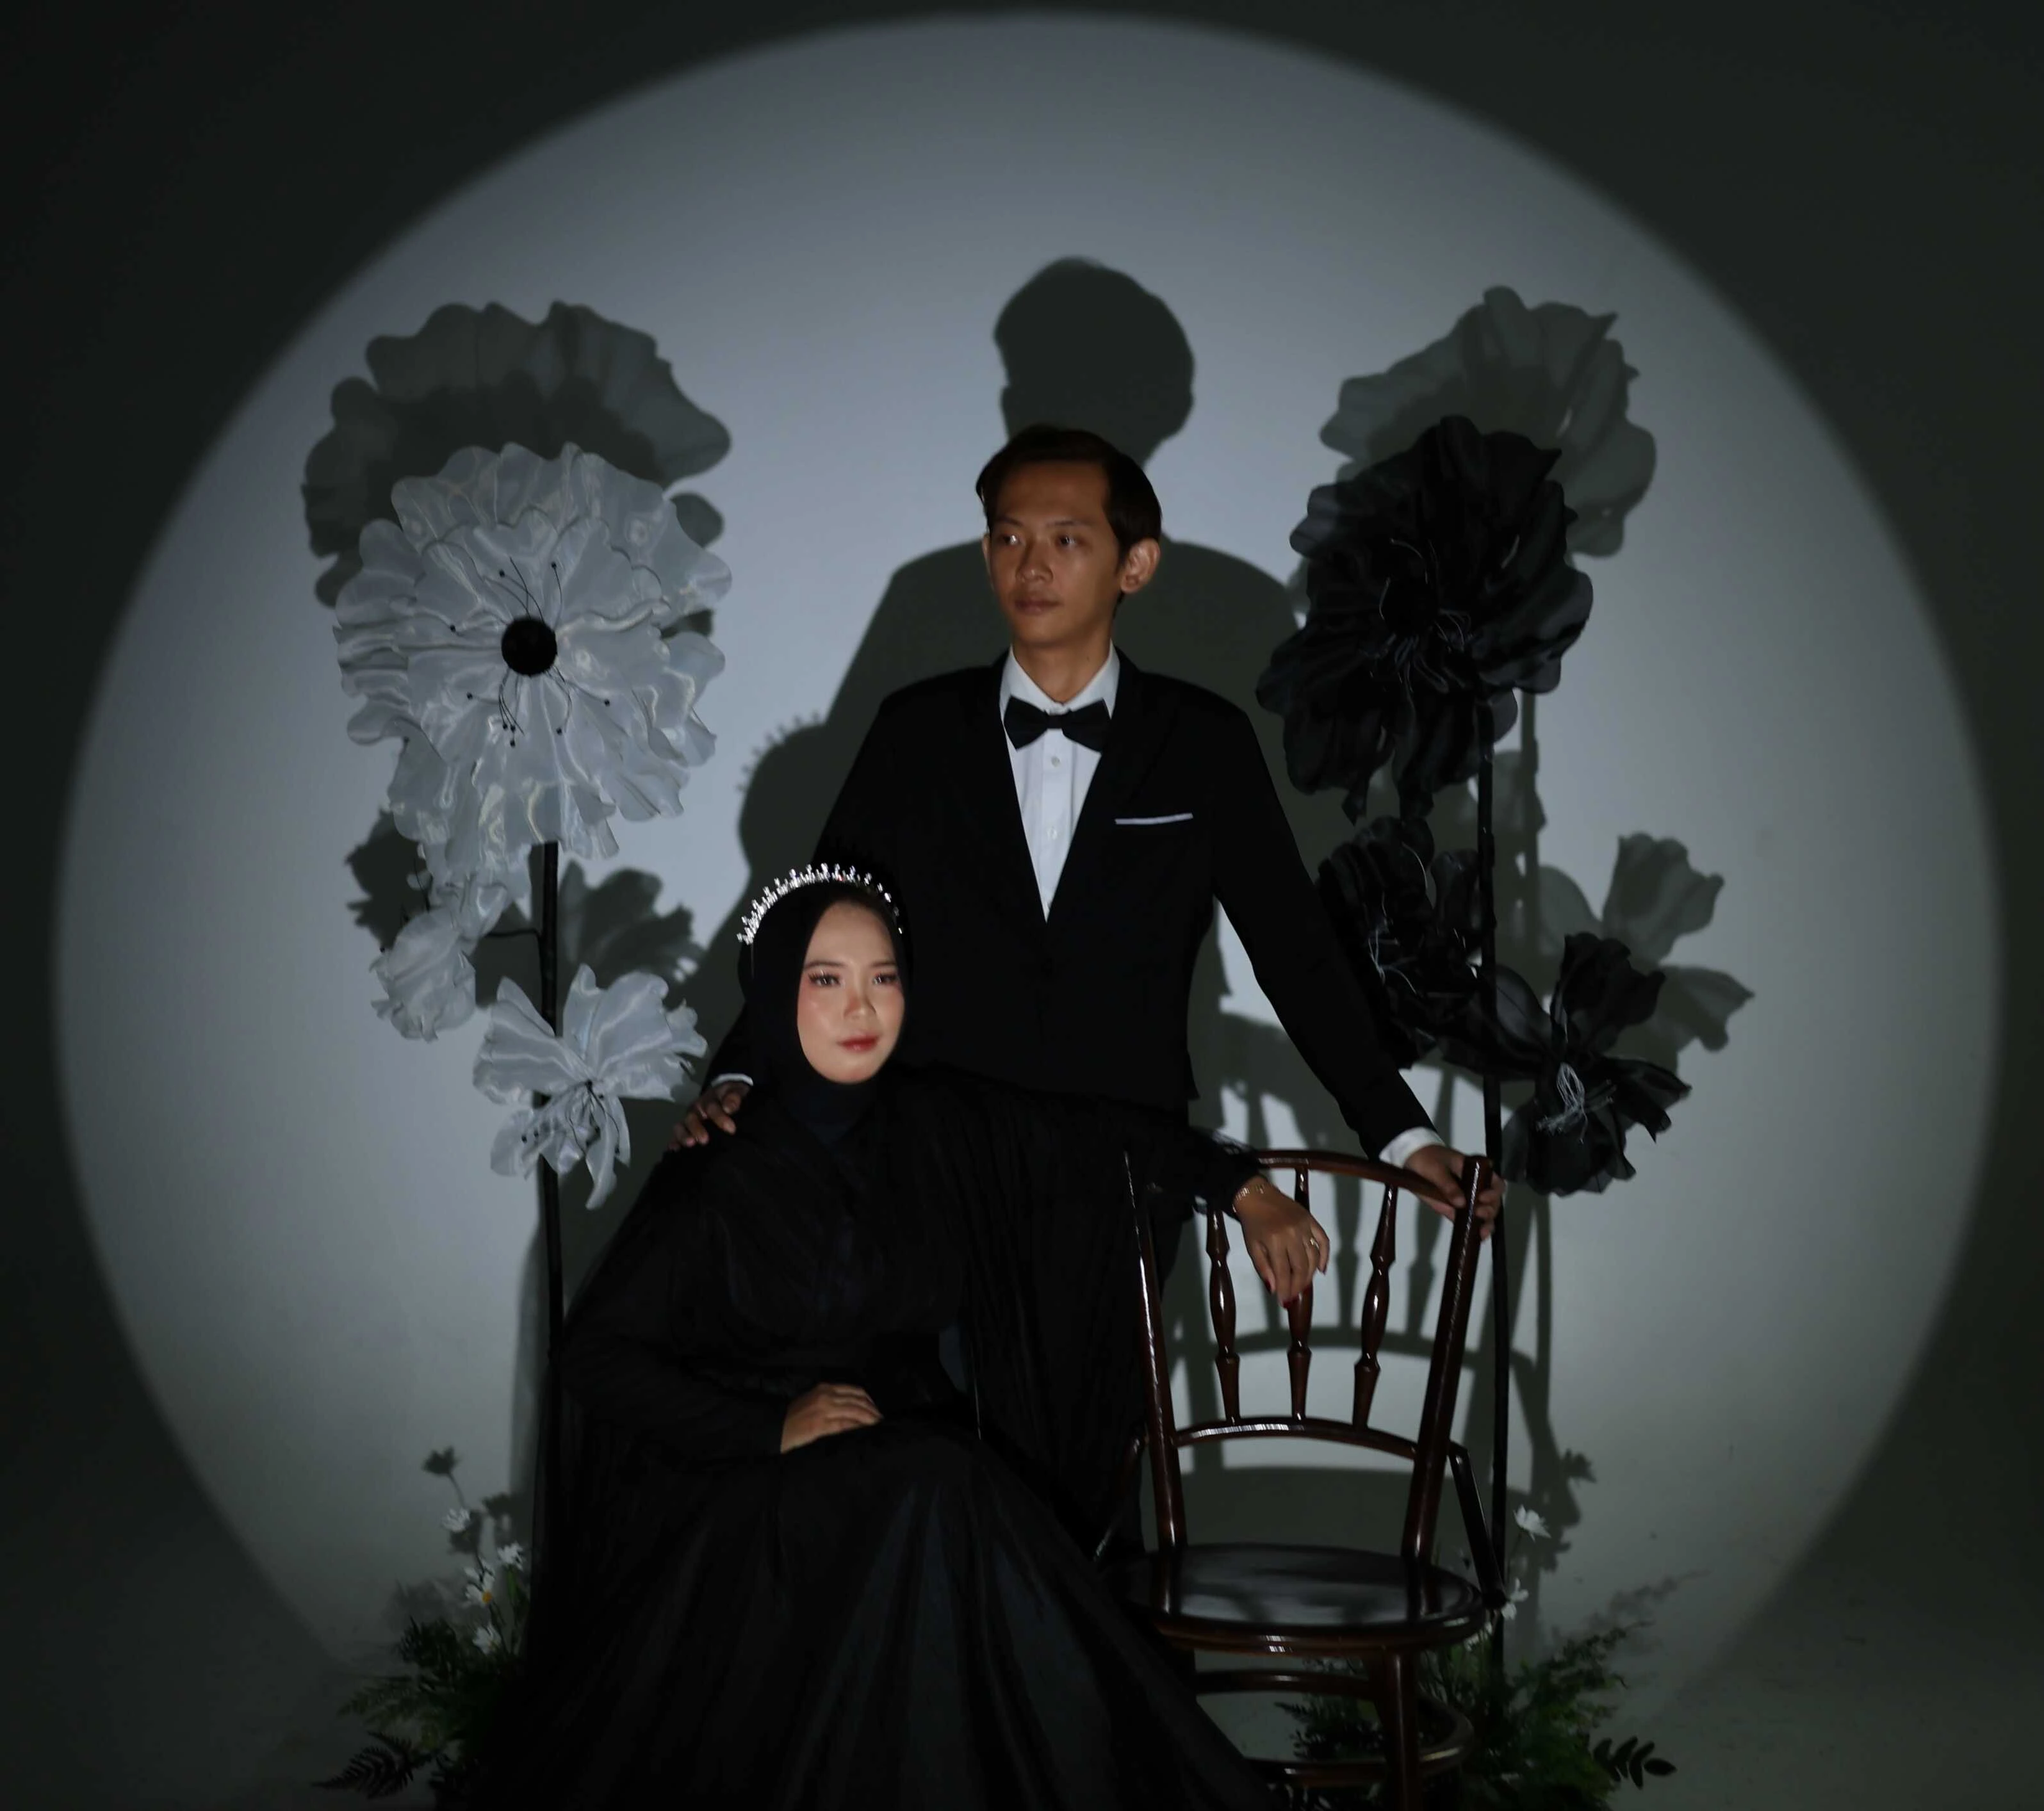
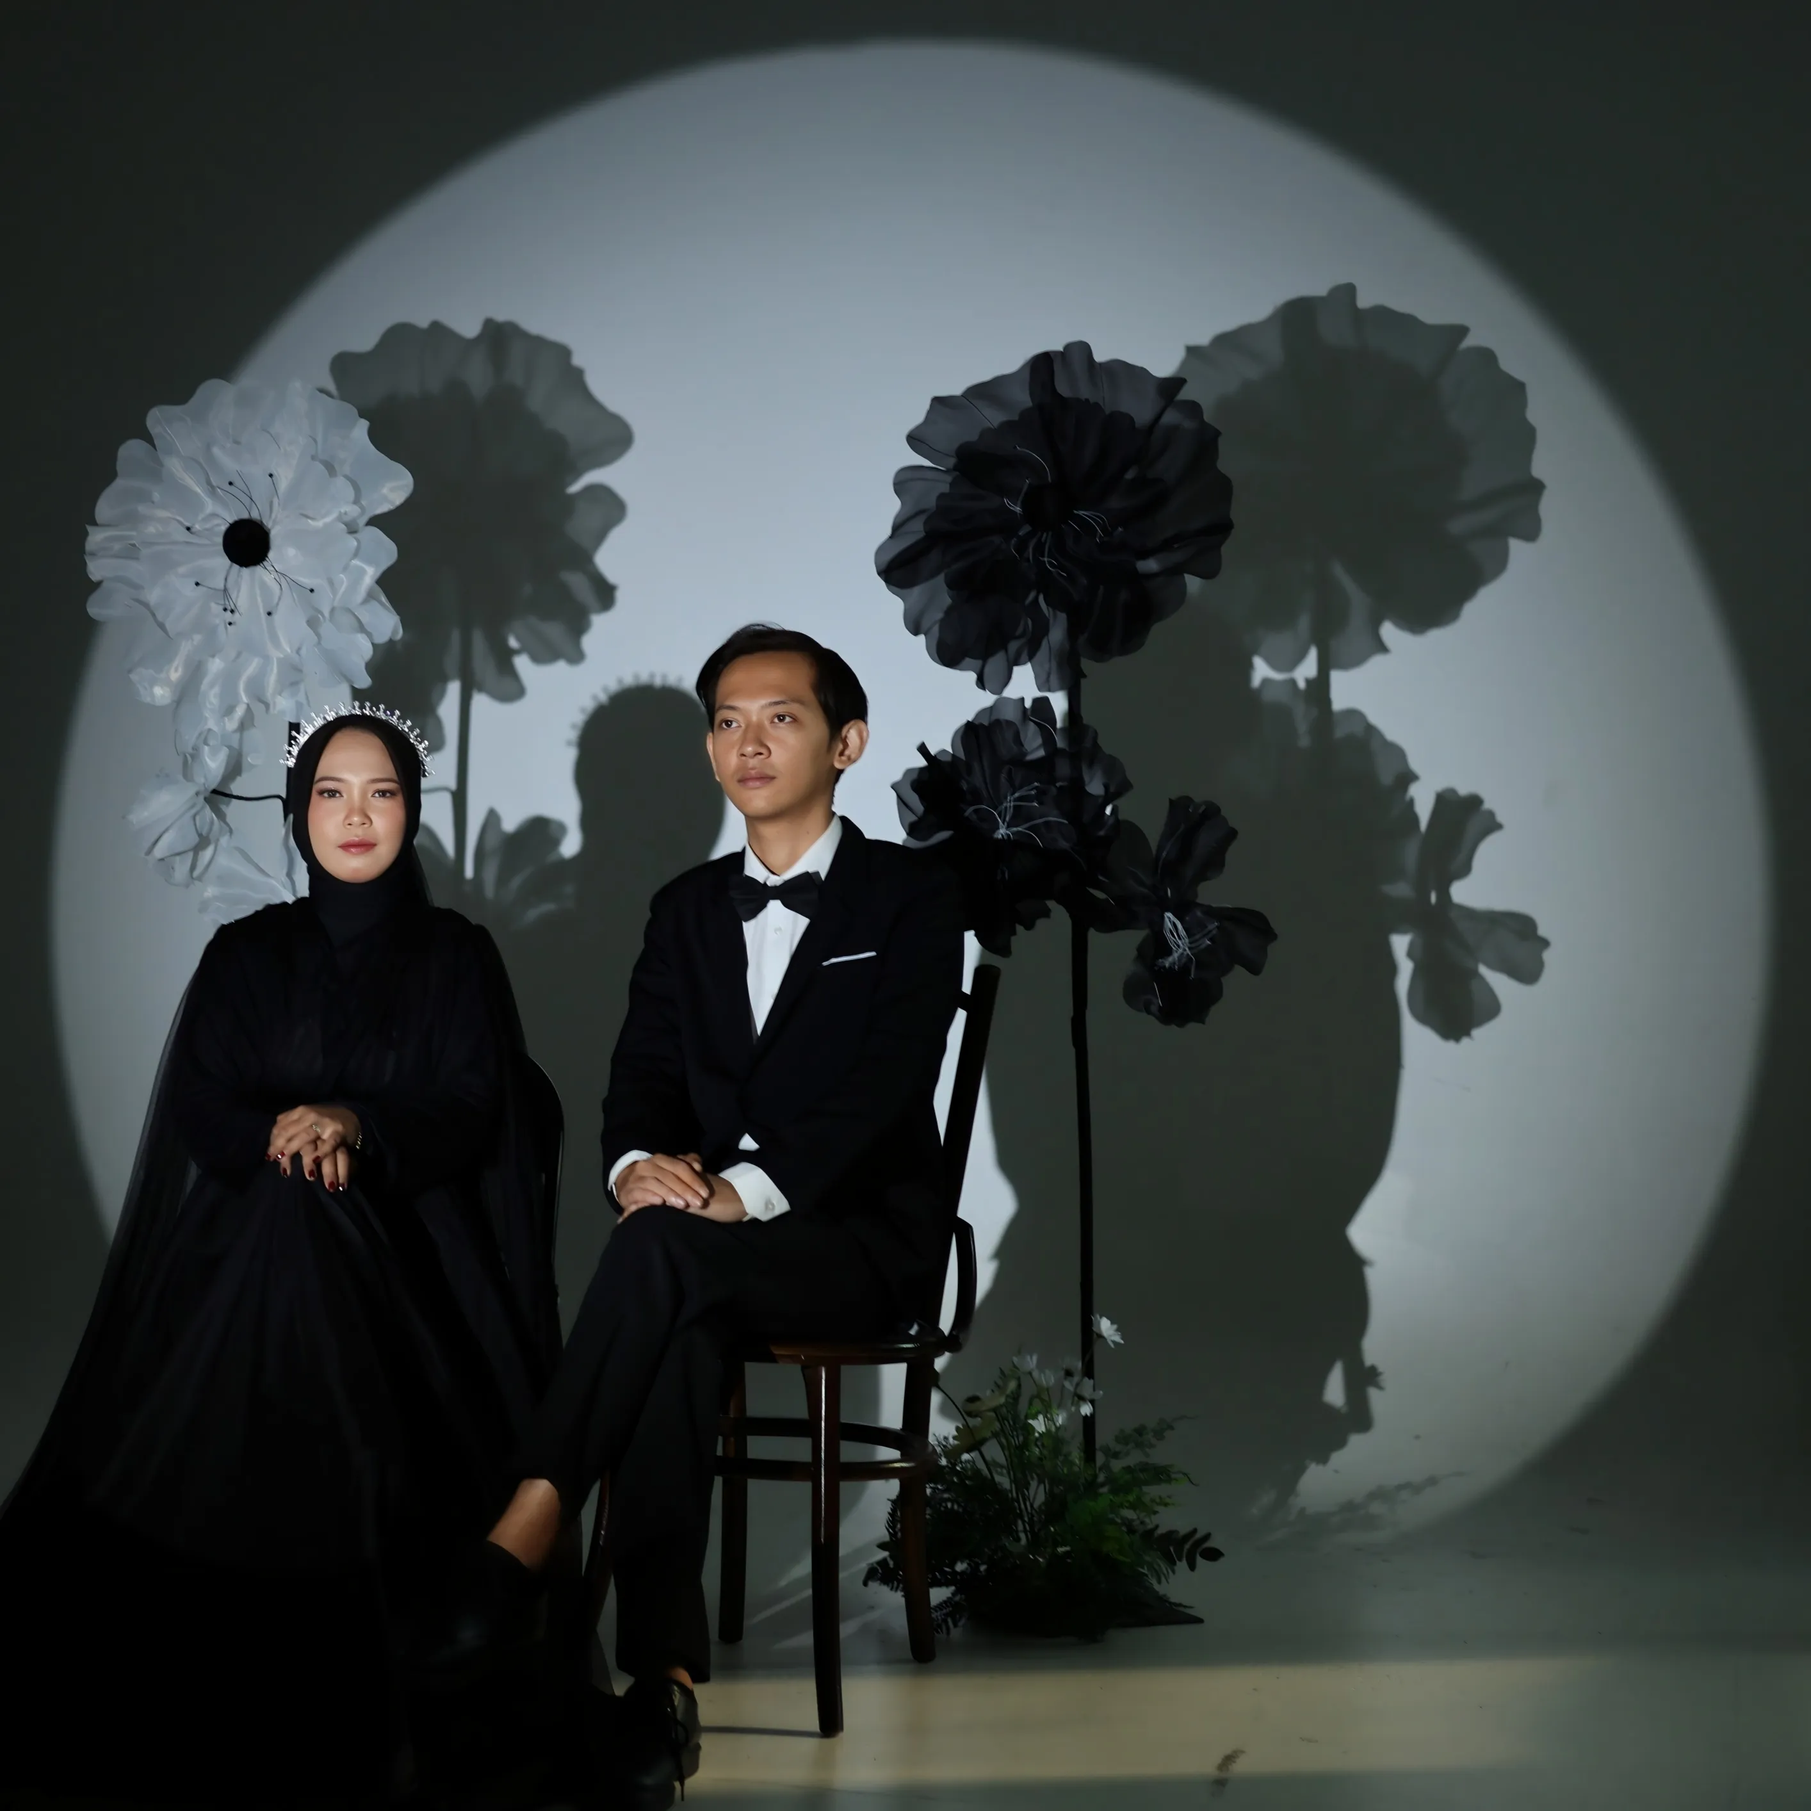
Selesai!

diff --git a/index.html b/index.html
@@ -384,10 +384,13 @@
                                         <img src="./assets/images/placeholder.webp" data-src="./assets/images/IMG_4.webp" alt="image 1" class="d-block img-fluid cursor-pointer" onclick="undangan.guest.modal(this)">
                                     </div>
                                     <div class="carousel-item">
+                                        <img src="./assets/images/placeholder.webp" data-src="./assets/images/IMG_6.webp" alt="image 2" class="d-block img-fluid cursor-pointer" onclick="undangan.guest.modal(this)">
+                                    </div>
+                                    <div class="carousel-item">
                                         <img src="./assets/images/placeholder.webp" data-src="./assets/images/IMG_5.webp" alt="image 2" class="d-block img-fluid cursor-pointer" onclick="undangan.guest.modal(this)">
                                     </div>
                                     <div class="carousel-item">
-                                        <img src="./assets/images/placeholder.webp" data-src="./assets/images/IMG_6.webp" alt="image 3" class="d-block img-fluid cursor-pointer" onclick="undangan.guest.modal(this)">
+                                        <img src="./assets/images/placeholder.webp" data-src="./assets/images/IMG_10.webp" alt="image 3" class="d-block img-fluid cursor-pointer" onclick="undangan.guest.modal(this)">
                                     </div>
                                 </div>
 
